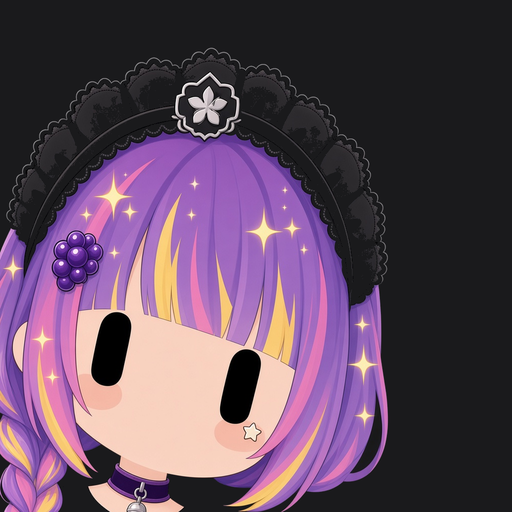
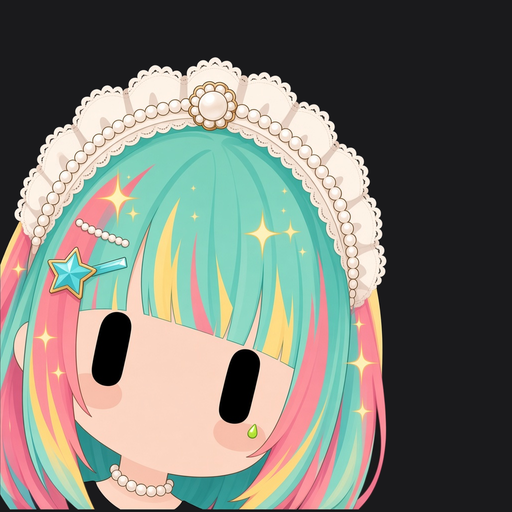
v16: dark headpiece contrast lock + refreshed showcase sheet
Add non-negotiable HEADPIECE CONTRAST LOCK (bright piping / light main /
cream outer frill) so black/charcoal maid headpieces stay readable on
#1A1A1C. Sync README; refresh 6x4 preview after regenerating dark slots.

diff --git a/README.md b/README.md
@@ -1,16 +1,16 @@
 # Grok Bot 女仆头像 · 一键提示词
 
-一套给 Grok Bot 用的女仆头像提示词：全员同一张脸、同一个构图，头发和头饰各不一样；发色亮/正常/深混着来。把提示词整份丢给你的 Bot，它会先出总览，再问你要不要一键换上。
+一套给 Grok Bot 用的女仆头像提示词：全员同一张脸、同一个构图，头发和头饰各不一样；发色亮/正常/深混着来；**深色头饰绝不糊进 `#1A1A1C`**。把提示词整份丢给你的 Bot，它会先出总览，再问你要不要一键换上。
 
 ## 效果预览
 
-24 张同模 showcase（亮 / 正常 / 深混搭；头饰剪影/材质/颜色互异，6×4）：
+24 张同模 showcase（v16：深色头饰已加亮滚边 / 外白荷叶 / 浅主色；6×4）：
 
 ![6x4 showcase](samples/sheet-6x4.png)
 
-单张示例（含深档）：
+单张示例：
 
-| 亮·电光青 | 深·葡萄 | 深·酒红 | 正常·珊瑚 | 深·翠绿 | 亮·粉青分色 |
+| 亮·电光青 | 正常·薄荷珍珠 | 深·酒红 | 正常·珊瑚 | 深·翠绿 | 亮·粉青分色 |
 |:---:|:---:|:---:|:---:|:---:|:---:|
 | ![s01](samples/s01-bright-cyan.png) | ![s06](samples/s06-deep-grape.png) | ![s12](samples/s12-deep-wine.png) | ![s19](samples/s19-mid-coral.png) | ![s20](samples/s20-deep-emerald.png) | ![s21](samples/s21-bright-split.png) |
 
@@ -30,30 +30,16 @@
 - **构图**：大特写锚在左下，露一小截脖子 + choker，不露肩膀和胸口；背景 `#1A1A1C`。
 - **发色**：饱和多巴胺糖果色，**亮 / 正常 / 深**按自然比例混搭（深档用宝石底+亮挑染）；保留挑染 / 分色 / 内层染 / 发尾渐变；**不要黑发，也不要水洗浅色**。
 - **头饰**：必须是女仆蕾丝/荷叶/缎带 katyusha；**黑白为主**但剪影、材质、滚边、徽章外形要互异（禁止全员同一顶白蕾丝）。
+- **深色头饰对比锁（v16）**：黑/炭灰头饰在 `#1A1A1C` 上必须可读——亮滚边（象牙/奶油/银/金/高饱和色 ≥2px）/ 换浅主色（奶油/米/浅灰/酒红）/ 外白内黑荷叶边，三选一；禁止哑光纯黑无边。
 - **贴纸**：每边脸最多 1 个审美贴（星星、爱心、月牙等），不放握手、对勾这类硬图标；职能识别只在头饰徽章和发卡上。
-- **头饰**：黑白为主，但外形/材质/风格必须互异，禁止全员同一顶白蕾丝。
 - **气质**：二次元 / 轻亚比 / 一点点小偶像，女仆框架不丢。
 
-## 完整提示词（v15）
+## 完整提示词（v16）
 
 <details>
-<summary>点击展开：一键提示词 v15（复制这里或 PROMPT.md）</summary>
+<summary>点击展开：一键提示词 v16（复制这里或 PROMPT.md）</summary>
 
-
-
-
-
-
-
-
-
-
-
-
-
-
-
-# Grok Bot 女仆头像 · 一键提示词（v15）
+# Grok Bot 女仆头像 · 一键提示词（v16）
 
 > **给你用的：**整份复制 → 发给你的 Grok Bot。  
 > **给 Bot 用的：**先看「做成什么样」，再严格按流程；出图时把 **§3 英文**整段交给画图模型。
@@ -67,8 +53,9 @@
 1. **同一张脸、同一个镜头** — 眼睛齐平、头一样大，像换装不是换人。  
 2. **发色有层次** — 亮 / 正常 / 深都有，不是全员荧光，也不是全员发暗；没有黑发、没有水洗浅粉。  
 3. **头饰一眼能分清** — 仍是女仆头饰，但以黑白为主，花样、材质、风格各不相同（不是复制同一顶白蕾丝）。  
-4. **配饰有记忆点** — 发卡、颈链、脸颊小贴纸每号不一样；贴纸是可爱装饰，不是工作图标。  
-5. **先给总览，再问要不要换** — 没问就换 = 做错了。
+4. **深色头饰绝不糊进背景** — 黑/炭灰头饰在 `#1A1A1C` 上必须能看清轮廓（亮滚边 / 换浅主色 / 外层白荷叶边三选一）；缩略图也能看出头饰剪影。  
+5. **配饰有记忆点** — 发卡、颈链、脸颊小贴纸每号不一样；贴纸是可爱装饰，不是工作图标。  
+6. **先给总览，再问要不要换** — 没问就换 = 做错了。
 
 做不到以上任一条：重做，不要凑合交付。
 
@@ -107,7 +94,7 @@
 | 下边 | 露出一小截一样长的脖子和颈链；不露肩膀、不露胸口 |
 | 背景 | `#1A1A1C` |
 | 参考 | 每张都要：**母版 + 一张合格同套图** |
-| 直接作废 | 脸变大/变近、头饰被切、脖子长短不一、头饰复制粘贴 |
+| 直接作废 | 脸变大/变近、头饰被切、脖子长短不一、头饰复制粘贴、深色头饰糊进背景 |
 
 ---
 
@@ -120,13 +107,21 @@ Square 1:1 avatar. Flat 2D anime chibi icon, mouthless round face, two plain sol
 
 FRAMING LOCK (match master exactly): same pose, same face size, same eye position, same camera distance. Eye height ≈14% of canvas. Head + maid headpiece ≈45–55% of canvas height — DO NOT zoom closer. Entire headpiece inside frame with ≥20px empty margin above it. Attach BOTH the master image AND one known-good sibling from this set as references. If framing drifts, regenerate; do not crop tighter.
 
-Appearance: [concrete hairstyle + one asymmetry]. [BRIGHT or MID or DEEP] dopamine candy hair in 60/30/10 colors [name three colors] — rich chromatic candy, NEVER pastel/washed pink, NEVER black/charcoal base (if DEEP: dark jewel base + bright streak or tip). Dye: [chunky streak / vertical split / underdye / tip ombre / different-color twin tails]. UNIQUE maid headpiece (must still read as maid lace/ruffle/ribbon band; mostly black/white; NOT a clone of other bots): [silhouette], [material], [main color + optional colored piping], center gold-trimmed emblem shaped like [unique symbol — not a checkmark unless vote bot]. Bangs clip: [job prop]. ONE tiny aesthetic cheek sticker only: [star/heart/sparkle/flower/crescent/teardrop/tiny bow] — NEVER job icons. Choker: [unique]. Optional soft hair sparkle. Do NOT copy any clip, sticker, or checkmark from the master.
+Appearance: [concrete hairstyle + one asymmetry]. [BRIGHT or MID or DEEP] dopamine candy hair in 60/30/10 colors [name three colors] — rich chromatic candy, NEVER pastel/washed pink, NEVER black/charcoal base (if DEEP: dark jewel base + bright streak or tip). Dye: [chunky streak / vertical split / underdye / tip ombre / different-color twin tails]. UNIQUE maid headpiece (must still read as maid lace/ruffle/ribbon band; mostly black/white; NOT a clone of other bots): [silhouette], [material], [main color + REQUIRED contrast treatment if dark — see HEADPIECE CONTRAST LOCK], center gold-trimmed emblem shaped like [unique symbol — not a checkmark unless vote bot]. Bangs clip: [job prop]. ONE tiny aesthetic cheek sticker only: [star/heart/sparkle/flower/crescent/teardrop/tiny bow] — NEVER job icons. Choker: [unique]. Optional soft hair sparkle. Do NOT copy any clip, sticker, or checkmark from the master.
+
+HEADPIECE CONTRAST LOCK (non-negotiable on #1A1A1C): Dark / black / charcoal / near-black headpieces MUST stay readable at thumbnail size. For ANY dark headpiece pick ONE: (a) bright edge piping ≥2px visual — ivory, cream, silver, gold, or hot color along the ENTIRE outer silhouette; OR (b) swap the main body to cream / ivory / soft grey / wine with contrast lace; OR (c) white/cream outer frill wrapping a dark inner band. NEVER pure matte black lace with no rim. Far-thumbnail must show the headpiece silhouette clearly against #1A1A1C.
 ```
 
-**合格 Appearance 示例（投票号，可仿写，勿照抄到别的号）：**
+**合格 Appearance 示例 A（投票号 · 白头饰，可仿写）：**
 
 ```
 Appearance: long straight hair with blunt bangs, one longer strand on the left. MID dopamine candy hair 60/30/10 hot coral / cream / lemon gold — tip ombre. UNIQUE maid headpiece: wide white layered ruffle lace, thick lace material, ivory white with thin gold piping, center gold-trimmed emblem shaped like a ballot check. Bangs clip: tiny paper ballot. ONE tiny aesthetic cheek sticker only: gold teardrop sparkle. Choker: thin gold-edged white lace with a small gold ring. Soft hair sparkle. Do NOT copy any clip, sticker, or checkmark from the master.
+```
+
+**合格 Appearance 示例 B（深色头饰 · 必须有亮滚边，可仿写）：**
+
+```
+Appearance: low side braid with soft bangs, one longer left strand. DEEP dopamine candy hair 60/30/10 deep grape jewel / neon lilac streak / lemon gold — underdye. UNIQUE maid headpiece: gothic pointed scallop lace, thick lace material, charcoal black INNER band wrapped by a bright ivory outer frill PLUS thin hot-pink piping ≥2px on the entire outer silhouette (HEADPIECE CONTRAST LOCK — never matte black alone), center silver-trimmed emblem shaped like a cherry blossom. Bangs clip: tiny grape flower. ONE tiny aesthetic cheek sticker only: cream star. Choker: velvet purple with a silver bell. Soft hair sparkle. Do NOT copy any clip, sticker, or checkmark from the master.
 ```
 
 ---
@@ -143,11 +138,16 @@ Appearance: long straight hair with blunt bangs, one longer strand on the left. 
 
 ---
 
-## 5. 头饰：黑白为主，必须能分清
+## 5. 头饰：黑白为主，必须能分清 + 深色可读
 
 - 必须是女仆头饰（蕾丝、荷叶边、缎带发箍那种），不要改成普通发箍、皇冠、帽子。  
 - 禁止全员同一顶白蕾丝、同一个圆形金徽章。  
 - 每个号至少在两项上明显不同：外形花样、颜色（白/米/黑/黑白拼/深灰，可加彩色滚边）、材质、风格、正中徽章形状。  
+- **深色 / 黑色 / 炭灰头饰硬规则（不可妥协）：**在 `#1A1A1C` 背景上必须可读。任选其一——  
+  1. **亮滚边**：整圈外轮廓象牙/奶油/银/金/高饱和色描边，视觉宽度 ≥2px；或  
+  2. **换主色**：主体改成奶油/象牙白/浅灰/酒红，再配对比色蕾丝；或  
+  3. **外白内黑**：白色/奶油色外层荷叶边包住深色内带。  
+  **禁止**纯哑光黑蕾丝、无任何滚边/外白边。远看缩略图必须能看出头饰剪影。  
 - 缩成很小也能看出来「不是同一顶」。  
 - 谁是哪个职能：只靠 **头饰徽章** 和 **刘海发卡**，不要画在脸上。
 
@@ -164,12 +164,13 @@ Appearance: long straight hair with blunt bangs, one longer strand on the left. 
 
 ## 7. 分配表
 
-出图前填满。头饰列一定要写清「外形 + 材质 + 颜色」，不要只写「白蕾丝」。
+出图前填满。头饰列一定要写清「外形 + 材质 + 颜色 + 对比处理（若深色）」，不要只写「白蕾丝」或「黑蕾丝」。
 
-| # | 助手名 | 档位 | 发型 | 染法 | 三色 | 头饰（外形/材质/色） | 徽章 | 发卡 | 贴纸 | 颈链 |
+| # | 助手名 | 档位 | 发型 | 染法 | 三色 | 头饰（外形/材质/色/对比） | 徽章 | 发卡 | 贴纸 | 颈链 |
 |---|---|---|---|---|---|---|---|---|---|---|
 | 01 | （例）投票 | 正常 | 齐刘海长直 | 发尾渐变 | 热珊瑚/奶油/柠檬金 | 宽层叠白蕾丝/厚蕾丝/米白描金 | 选票对勾 | 小选票 | 金泪滴 | 金边白蕾丝+金环 |
-| 02 | … | … | … | … | … | … | … | … | … | … |
+| 02 | （例）深色头饰 | 深 | 侧辫软刘海 | 内层染 | 深葡萄/霓虹紫/金 | 哥特尖扇蕾丝/厚蕾丝/炭灰内带+象牙白外荷叶+热粉滚边 | 樱花 | 葡萄花 | 奶油星 | 紫绒+银铃 |
+| 03 | … | … | … | … | … | … | … | … | … | … |
 
 新助手：表末加行，外观不与已有重复 → 同一母版出图。
 
@@ -182,6 +183,7 @@ Appearance: long straight hair with blunt bangs, one longer strand on the left. 
 | 越到后面脸越大、头饰被切 | 检查英文 FRAMING LOCK；双参考；缩放超过 1.08 直接重画 |
 | 头饰长一个样 | 分配表重写外形/材质/色；缩略图复查 |
 | 头发太浅或发黑糊进背景 | 换档位用词；深档加亮挑染 |
+| **深色头饰糊进 #1A1A1C** | 加亮滚边 / 换浅主色 / 外白荷叶边；禁止哑光纯黑无边 |
 | 脸上出现工作图标 | 改成可爱小贴；职能只留徽章和发卡 |
 | 母版的对勾跑到别的号 | 英文写清不要抄母版配件 |
 | 总览眼睛不齐、头大小不一 | 不准交付 |
@@ -191,32 +193,21 @@ Appearance: long straight hair with blunt bangs, one longer strand on the left. 
 ## 9. 分享时请保留
 
 - 只需分享本文件（或本仓库）。  
-- **不要删：**同一模子、双参考、缩放上限、背景色、禁黑发与水洗浅色、头饰要能分清、可爱贴纸、先展示再问是否更换。
+- **不要删：**同一模子、双参考、缩放上限、背景色、禁黑发与水洗浅色、头饰要能分清、**深色头饰对比锁**、可爱贴纸、先展示再问是否更换。
 
 ---
 
-*v15 · 面向展示与稳定出图：验收标准前置、英文分锁构图/写外观、补合格示例、中文更口语。*
+*v16 · 在 v15 验收标准与展示友好基础上，新增深色头饰对比硬锁（亮滚边 / 换浅主色 / 外白内黑），禁止哑光黑蕾丝糊进 #1A1A1C。*
+
 
 </details>
 
-也可直接打开：[`PROMPT.md`](PROMPT.md)。
+## 版本
 
-## 仓库里有什么
+- **v16** — 深色头饰对比硬锁；showcase 重画过暗槽位（s04/s05/s08/s11/s15/s22）。
+- v15 — 验收标准前置、英文分锁构图/写外观、合格 Appearance 示例、中文口语化。
+- 更早版本见 git 历史。
 
-```
-├── README.md              # 你正在看的说明
-├── PROMPT.md              # 一键完整提示词（发给 Bot 用）
-├── preview.png            # 6×4 showcase 预览
-└── samples/
-    ├── sheet-6x4.png      # 24 张总览
-    └── s*.png             # 单张样例（含亮/正常/深）
-    ├── 01.png …           # 若干单张示例
-```
+## License
 
-## 许可
-
-免费使用、修改、分享都可以。如果方便，欢迎在自媒体或项目里带一句来源或本仓库链接；不强制署名。
-
----
-
-*对应已上线的 maid-v13 / v13.3（比例锁死 · 发色三档）图集标准。有问题直接在 Issues 提，或把反馈发给你的 Grok Bot。*
+提示词与示例图可自由用于个人 Grok Bot / Cursor 助手头像；转载请保留本仓库链接与「先展示再问是否更换」约定。

diff --git a/PROMPT.md b/PROMPT.md
@@ -1,4 +1,4 @@
-# Grok Bot 女仆头像 · 一键提示词（v15）
+# Grok Bot 女仆头像 · 一键提示词（v16）
 
 > **给你用的：**整份复制 → 发给你的 Grok Bot。  
 > **给 Bot 用的：**先看「做成什么样」，再严格按流程；出图时把 **§3 英文**整段交给画图模型。
@@ -12,8 +12,9 @@
 1. **同一张脸、同一个镜头** — 眼睛齐平、头一样大，像换装不是换人。  
 2. **发色有层次** — 亮 / 正常 / 深都有，不是全员荧光，也不是全员发暗；没有黑发、没有水洗浅粉。  
 3. **头饰一眼能分清** — 仍是女仆头饰，但以黑白为主，花样、材质、风格各不相同（不是复制同一顶白蕾丝）。  
-4. **配饰有记忆点** — 发卡、颈链、脸颊小贴纸每号不一样；贴纸是可爱装饰，不是工作图标。  
-5. **先给总览，再问要不要换** — 没问就换 = 做错了。
+4. **深色头饰绝不糊进背景** — 黑/炭灰头饰在 `#1A1A1C` 上必须能看清轮廓（亮滚边 / 换浅主色 / 外层白荷叶边三选一）；缩略图也能看出头饰剪影。  
+5. **配饰有记忆点** — 发卡、颈链、脸颊小贴纸每号不一样；贴纸是可爱装饰，不是工作图标。  
+6. **先给总览，再问要不要换** — 没问就换 = 做错了。
 
 做不到以上任一条：重做，不要凑合交付。
 
@@ -52,7 +53,7 @@
 | 下边 | 露出一小截一样长的脖子和颈链；不露肩膀、不露胸口 |
 | 背景 | `#1A1A1C` |
 | 参考 | 每张都要：**母版 + 一张合格同套图** |
-| 直接作废 | 脸变大/变近、头饰被切、脖子长短不一、头饰复制粘贴 |
+| 直接作废 | 脸变大/变近、头饰被切、脖子长短不一、头饰复制粘贴、深色头饰糊进背景 |
 
 ---
 
@@ -65,13 +66,21 @@ Square 1:1 avatar. Flat 2D anime chibi icon, mouthless round face, two plain sol
 
 FRAMING LOCK (match master exactly): same pose, same face size, same eye position, same camera distance. Eye height ≈14% of canvas. Head + maid headpiece ≈45–55% of canvas height — DO NOT zoom closer. Entire headpiece inside frame with ≥20px empty margin above it. Attach BOTH the master image AND one known-good sibling from this set as references. If framing drifts, regenerate; do not crop tighter.
 
-Appearance: [concrete hairstyle + one asymmetry]. [BRIGHT or MID or DEEP] dopamine candy hair in 60/30/10 colors [name three colors] — rich chromatic candy, NEVER pastel/washed pink, NEVER black/charcoal base (if DEEP: dark jewel base + bright streak or tip). Dye: [chunky streak / vertical split / underdye / tip ombre / different-color twin tails]. UNIQUE maid headpiece (must still read as maid lace/ruffle/ribbon band; mostly black/white; NOT a clone of other bots): [silhouette], [material], [main color + optional colored piping], center gold-trimmed emblem shaped like [unique symbol — not a checkmark unless vote bot]. Bangs clip: [job prop]. ONE tiny aesthetic cheek sticker only: [star/heart/sparkle/flower/crescent/teardrop/tiny bow] — NEVER job icons. Choker: [unique]. Optional soft hair sparkle. Do NOT copy any clip, sticker, or checkmark from the master.
+Appearance: [concrete hairstyle + one asymmetry]. [BRIGHT or MID or DEEP] dopamine candy hair in 60/30/10 colors [name three colors] — rich chromatic candy, NEVER pastel/washed pink, NEVER black/charcoal base (if DEEP: dark jewel base + bright streak or tip). Dye: [chunky streak / vertical split / underdye / tip ombre / different-color twin tails]. UNIQUE maid headpiece (must still read as maid lace/ruffle/ribbon band; mostly black/white; NOT a clone of other bots): [silhouette], [material], [main color + REQUIRED contrast treatment if dark — see HEADPIECE CONTRAST LOCK], center gold-trimmed emblem shaped like [unique symbol — not a checkmark unless vote bot]. Bangs clip: [job prop]. ONE tiny aesthetic cheek sticker only: [star/heart/sparkle/flower/crescent/teardrop/tiny bow] — NEVER job icons. Choker: [unique]. Optional soft hair sparkle. Do NOT copy any clip, sticker, or checkmark from the master.
+
+HEADPIECE CONTRAST LOCK (non-negotiable on #1A1A1C): Dark / black / charcoal / near-black headpieces MUST stay readable at thumbnail size. For ANY dark headpiece pick ONE: (a) bright edge piping ≥2px visual — ivory, cream, silver, gold, or hot color along the ENTIRE outer silhouette; OR (b) swap the main body to cream / ivory / soft grey / wine with contrast lace; OR (c) white/cream outer frill wrapping a dark inner band. NEVER pure matte black lace with no rim. Far-thumbnail must show the headpiece silhouette clearly against #1A1A1C.
 ```
 
-**合格 Appearance 示例（投票号，可仿写，勿照抄到别的号）：**
+**合格 Appearance 示例 A（投票号 · 白头饰，可仿写）：**
 
 ```
 Appearance: long straight hair with blunt bangs, one longer strand on the left. MID dopamine candy hair 60/30/10 hot coral / cream / lemon gold — tip ombre. UNIQUE maid headpiece: wide white layered ruffle lace, thick lace material, ivory white with thin gold piping, center gold-trimmed emblem shaped like a ballot check. Bangs clip: tiny paper ballot. ONE tiny aesthetic cheek sticker only: gold teardrop sparkle. Choker: thin gold-edged white lace with a small gold ring. Soft hair sparkle. Do NOT copy any clip, sticker, or checkmark from the master.
+```
+
+**合格 Appearance 示例 B（深色头饰 · 必须有亮滚边，可仿写）：**
+
+```
+Appearance: low side braid with soft bangs, one longer left strand. DEEP dopamine candy hair 60/30/10 deep grape jewel / neon lilac streak / lemon gold — underdye. UNIQUE maid headpiece: gothic pointed scallop lace, thick lace material, charcoal black INNER band wrapped by a bright ivory outer frill PLUS thin hot-pink piping ≥2px on the entire outer silhouette (HEADPIECE CONTRAST LOCK — never matte black alone), center silver-trimmed emblem shaped like a cherry blossom. Bangs clip: tiny grape flower. ONE tiny aesthetic cheek sticker only: cream star. Choker: velvet purple with a silver bell. Soft hair sparkle. Do NOT copy any clip, sticker, or checkmark from the master.
 ```
 
 ---
@@ -88,11 +97,16 @@ Appearance: long straight hair with blunt bangs, one longer strand on the left. 
 
 ---
 
-## 5. 头饰：黑白为主，必须能分清
+## 5. 头饰：黑白为主，必须能分清 + 深色可读
 
 - 必须是女仆头饰（蕾丝、荷叶边、缎带发箍那种），不要改成普通发箍、皇冠、帽子。  
 - 禁止全员同一顶白蕾丝、同一个圆形金徽章。  
 - 每个号至少在两项上明显不同：外形花样、颜色（白/米/黑/黑白拼/深灰，可加彩色滚边）、材质、风格、正中徽章形状。  
+- **深色 / 黑色 / 炭灰头饰硬规则（不可妥协）：**在 `#1A1A1C` 背景上必须可读。任选其一——  
+  1. **亮滚边**：整圈外轮廓象牙/奶油/银/金/高饱和色描边，视觉宽度 ≥2px；或  
+  2. **换主色**：主体改成奶油/象牙白/浅灰/酒红，再配对比色蕾丝；或  
+  3. **外白内黑**：白色/奶油色外层荷叶边包住深色内带。  
+  **禁止**纯哑光黑蕾丝、无任何滚边/外白边。远看缩略图必须能看出头饰剪影。  
 - 缩成很小也能看出来「不是同一顶」。  
 - 谁是哪个职能：只靠 **头饰徽章** 和 **刘海发卡**，不要画在脸上。
 
@@ -109,12 +123,13 @@ Appearance: long straight hair with blunt bangs, one longer strand on the left. 
 
 ## 7. 分配表
 
-出图前填满。头饰列一定要写清「外形 + 材质 + 颜色」，不要只写「白蕾丝」。
+出图前填满。头饰列一定要写清「外形 + 材质 + 颜色 + 对比处理（若深色）」，不要只写「白蕾丝」或「黑蕾丝」。
 
-| # | 助手名 | 档位 | 发型 | 染法 | 三色 | 头饰（外形/材质/色） | 徽章 | 发卡 | 贴纸 | 颈链 |
+| # | 助手名 | 档位 | 发型 | 染法 | 三色 | 头饰（外形/材质/色/对比） | 徽章 | 发卡 | 贴纸 | 颈链 |
 |---|---|---|---|---|---|---|---|---|---|---|
 | 01 | （例）投票 | 正常 | 齐刘海长直 | 发尾渐变 | 热珊瑚/奶油/柠檬金 | 宽层叠白蕾丝/厚蕾丝/米白描金 | 选票对勾 | 小选票 | 金泪滴 | 金边白蕾丝+金环 |
-| 02 | … | … | … | … | … | … | … | … | … | … |
+| 02 | （例）深色头饰 | 深 | 侧辫软刘海 | 内层染 | 深葡萄/霓虹紫/金 | 哥特尖扇蕾丝/厚蕾丝/炭灰内带+象牙白外荷叶+热粉滚边 | 樱花 | 葡萄花 | 奶油星 | 紫绒+银铃 |
+| 03 | … | … | … | … | … | … | … | … | … | … |
 
 新助手：表末加行，外观不与已有重复 → 同一母版出图。
 
@@ -127,6 +142,7 @@ Appearance: long straight hair with blunt bangs, one longer strand on the left. 
 | 越到后面脸越大、头饰被切 | 检查英文 FRAMING LOCK；双参考；缩放超过 1.08 直接重画 |
 | 头饰长一个样 | 分配表重写外形/材质/色；缩略图复查 |
 | 头发太浅或发黑糊进背景 | 换档位用词；深档加亮挑染 |
+| **深色头饰糊进 #1A1A1C** | 加亮滚边 / 换浅主色 / 外白荷叶边；禁止哑光纯黑无边 |
 | 脸上出现工作图标 | 改成可爱小贴；职能只留徽章和发卡 |
 | 母版的对勾跑到别的号 | 英文写清不要抄母版配件 |
 | 总览眼睛不齐、头大小不一 | 不准交付 |
@@ -136,8 +152,8 @@ Appearance: long straight hair with blunt bangs, one longer strand on the left. 
 ## 9. 分享时请保留
 
 - 只需分享本文件（或本仓库）。  
-- **不要删：**同一模子、双参考、缩放上限、背景色、禁黑发与水洗浅色、头饰要能分清、可爱贴纸、先展示再问是否更换。
+- **不要删：**同一模子、双参考、缩放上限、背景色、禁黑发与水洗浅色、头饰要能分清、**深色头饰对比锁**、可爱贴纸、先展示再问是否更换。
 
 ---
 
-*v15 · 面向展示与稳定出图：验收标准前置、英文分锁构图/写外观、补合格示例、中文更口语。*
+*v16 · 在 v15 验收标准与展示友好基础上，新增深色头饰对比硬锁（亮滚边 / 换浅主色 / 外白内黑），禁止哑光黑蕾丝糊进 #1A1A1C。*
